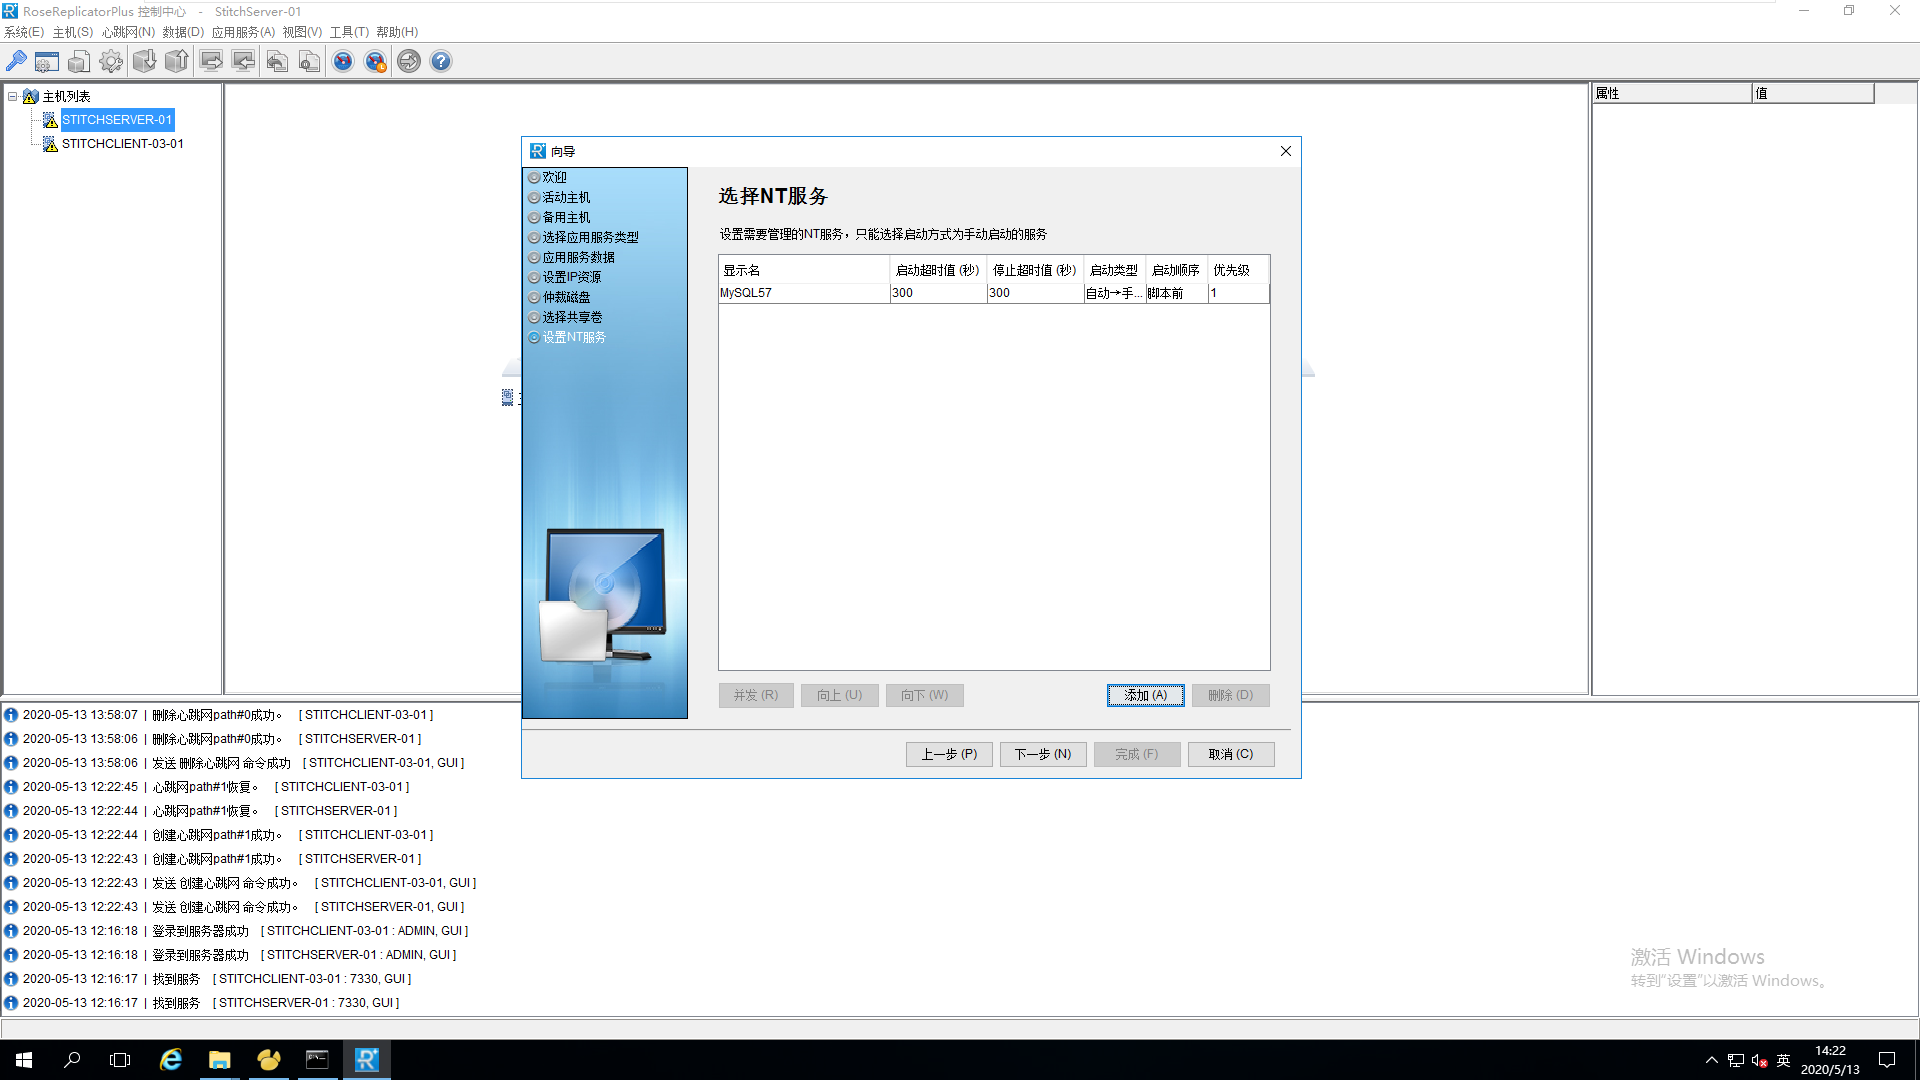
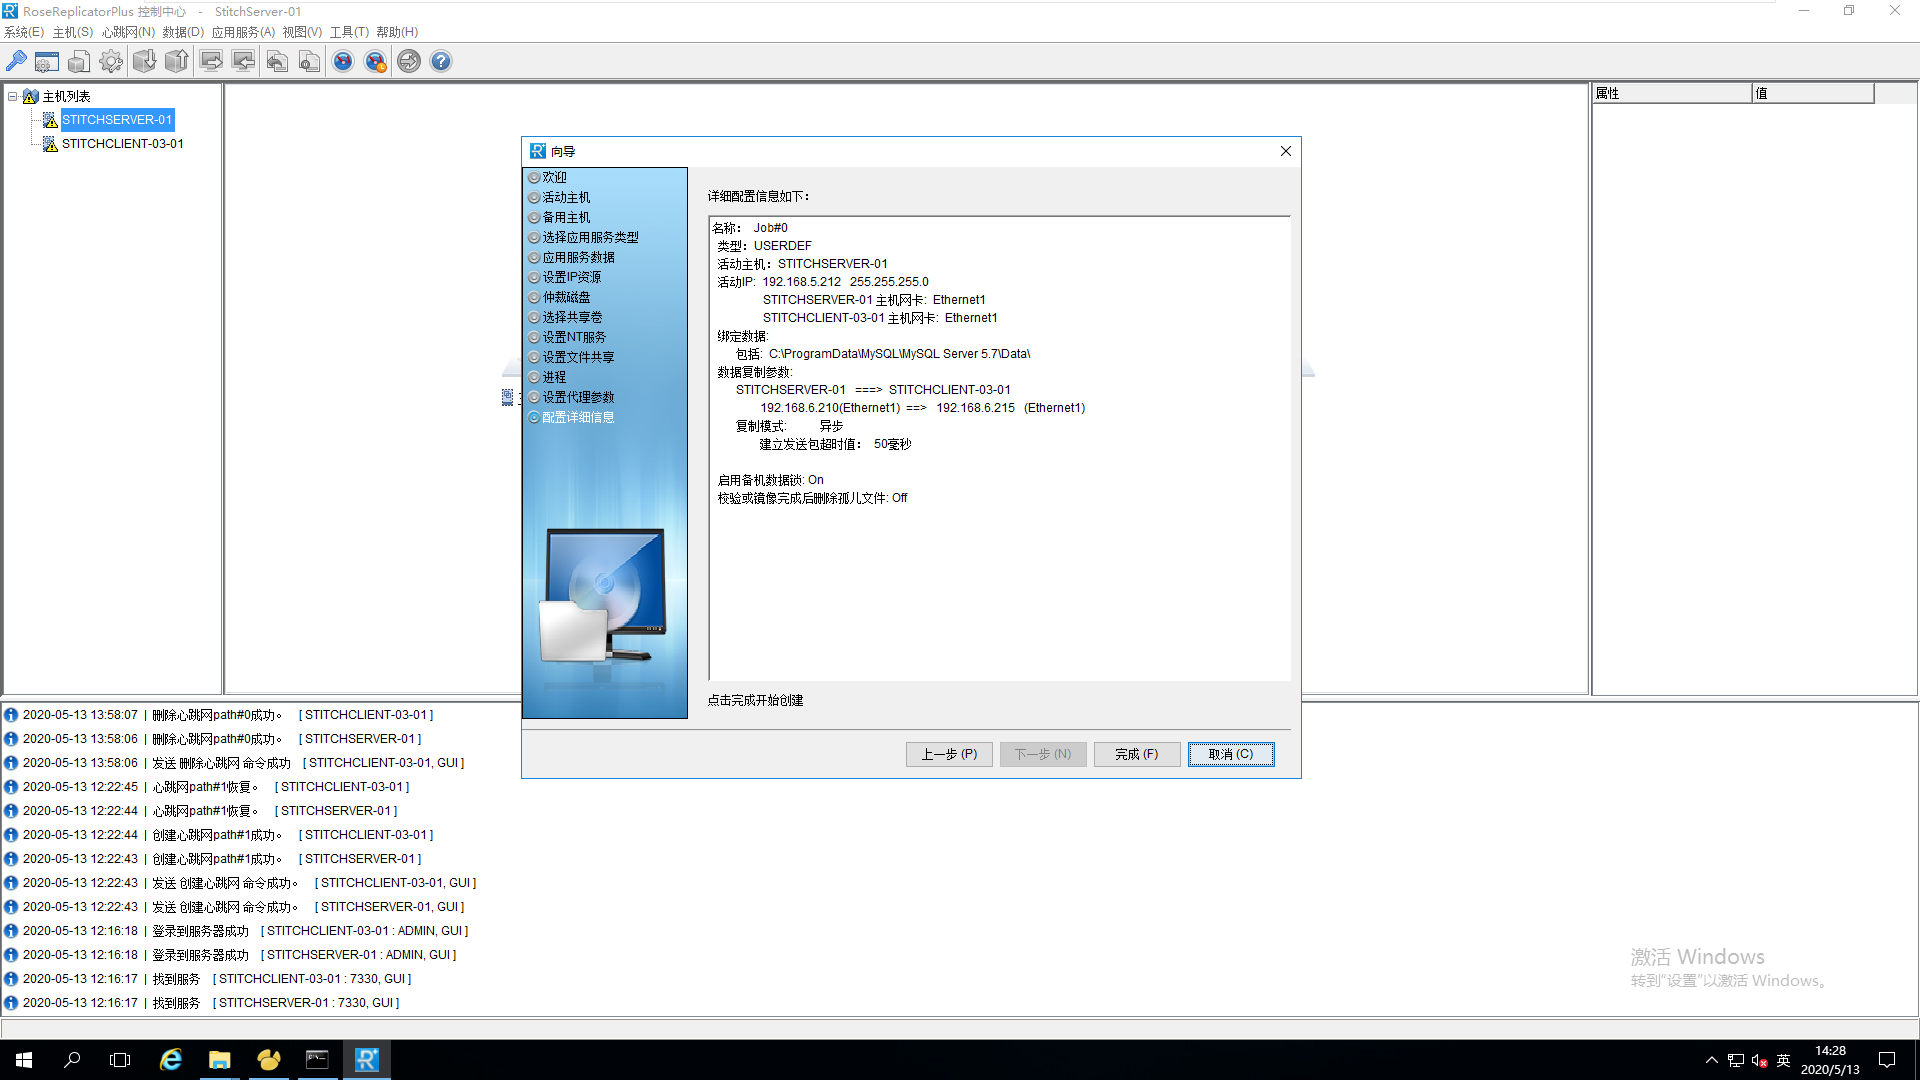
Modify:software-Rose

diff --git a/hexoblog/source/_drafts/software-Rose.md b/hexoblog/source/_drafts/software-Rose.md
@@ -11,10 +11,65 @@ categories: Software
 #### 简介
 [RoseReplicator](http://www.rosedata.com/index.php/Prodetail/index/proid/24)是基于网络的实时数据容灾复制以及业务连续性保护产品，实现生产数据的本地/远程实时容灾备份，保证数据的安全。实时监测应用资源运行状态，实现资源故障时自动/手动应急切换，解决软、硬件的单点故障，提供高级别的容灾保护。
 
-#### 创建管理软件账户
+#### 前置条件
+1.虚拟机（VMware）测试，两台（Windows Server 2016）
+2.两台机器部署 MySQL，版本 5.7.29
+3.两台机器部署 RoseReplicatorPlus，版本 5.8.0
+4.Rose 客服人员微信号：cathy_shen1001
+5.两台虚拟机IP地址：
+  主机：192.168.5.210;192.168.6.210;
+  备机：192.168.5.215;192.168.6.215;
+  虚拟地址：192.168.5.212;
+
+#### 创建管理软件账户（主备都要创建）
 1.进入安装目录 C:\Program Files\ReplicatorPlus\bin 以管理员方式运行（否则会报 File open error 错误） account.exe 应用程序。
 2.根据需求创建不同权限的用户。
 3.输入用户名密码，显示 Change successfully! 注册成功。
+<img src="https://raw.githubusercontent.com/Sadness96/sadness96.github.io/master/images/blog/software-Rose/注册.png"/>
 
 #### 向导安装
+1.选择：系统→配置向导
+<img src="https://raw.githubusercontent.com/Sadness96/sadness96.github.io/master/images/blog/software-Rose/向导1.png"/>
 
+2.选择活动主机登录
+<img src="https://raw.githubusercontent.com/Sadness96/sadness96.github.io/master/images/blog/software-Rose/向导2.png"/>
+
+3.选择备用主机登录
+<img src="https://raw.githubusercontent.com/Sadness96/sadness96.github.io/master/images/blog/software-Rose/向导3.png"/>
+
+4.添加客服手里要来的注册码
+<img src="https://raw.githubusercontent.com/Sadness96/sadness96.github.io/master/images/blog/software-Rose/向导4.png"/>
+
+5.创建主机关系，创建心跳网(心跳要求与局域网IP不同网段，添加一个新网段后可在主机列表更新系统信息后重新创建心跳，测试使用时把心跳IP网段改为了6网段)
+<img src="https://raw.githubusercontent.com/Sadness96/sadness96.github.io/master/images/blog/software-Rose/向导5.png"/>
+
+6.选择应用服务类型，类型中不包含MySQL，客服建议选择USERDEF（用户自定义）
+<img src="https://raw.githubusercontent.com/Sadness96/sadness96.github.io/master/images/blog/software-Rose/向导6.png"/>
+
+7.应用服务数据→勾选绑定数据→添加一对心跳包网段的IP对，定制用于复制的数据集合点击修改→选择mysql数据库data目录（Rose会同步MySQL的Data目录）。
+<img src="https://raw.githubusercontent.com/Sadness96/sadness96.github.io/master/images/blog/software-Rose/向导7.png"/>
+
+8.设置IP资源：勾选主机网卡中局域网IP对，活动IP中新增一个局域网中未规划的IP。
+<img src="https://raw.githubusercontent.com/Sadness96/sadness96.github.io/master/images/blog/software-Rose/向导8.png"/>
+
+9.仲裁磁盘：跳过
+10.选择共享卷：跳过
+11.选择NT服务：添加MySQL57服务，弹出确定将非手动启动类型的NT服务修改为手动启动类型选择是。
+<img src="https://raw.githubusercontent.com/Sadness96/sadness96.github.io/master/images/blog/software-Rose/向导9.png"/>
+
+12.设置文件共享：跳过
+13.进程：跳过，这个主要是针对第三方开发的应用程序，通过exe启动，没有在Windows服务列表中注册服务的，如果是mysql应用不需要配置。
+14.设置代理参数：跳过，这个主要是针对bat启动的应用
+15.配置详细信息：确认无误点击完成开始配置。
+<img src="https://raw.githubusercontent.com/Sadness96/sadness96.github.io/master/images/blog/software-Rose/向导10.png"/>
+
+16.关闭后咨询是否带入，点击否。
+
+#### 后续操作
+1.手动停止两台电脑MySQL，手动备份Data目录。
+2.在RoseReplicatorPlus 控制中心点击中间方块右键带入。
+<img src="https://raw.githubusercontent.com/Sadness96/sadness96.github.io/master/images/blog/software-Rose/主界面.png"/>
+
+3.修改数据库内容后，数据同步正常。
+4.在方块上右键转移，连接数据库同步后同步正常。
+5.关闭一台机器后，另一台电脑 MySQL 服务正常启动。
